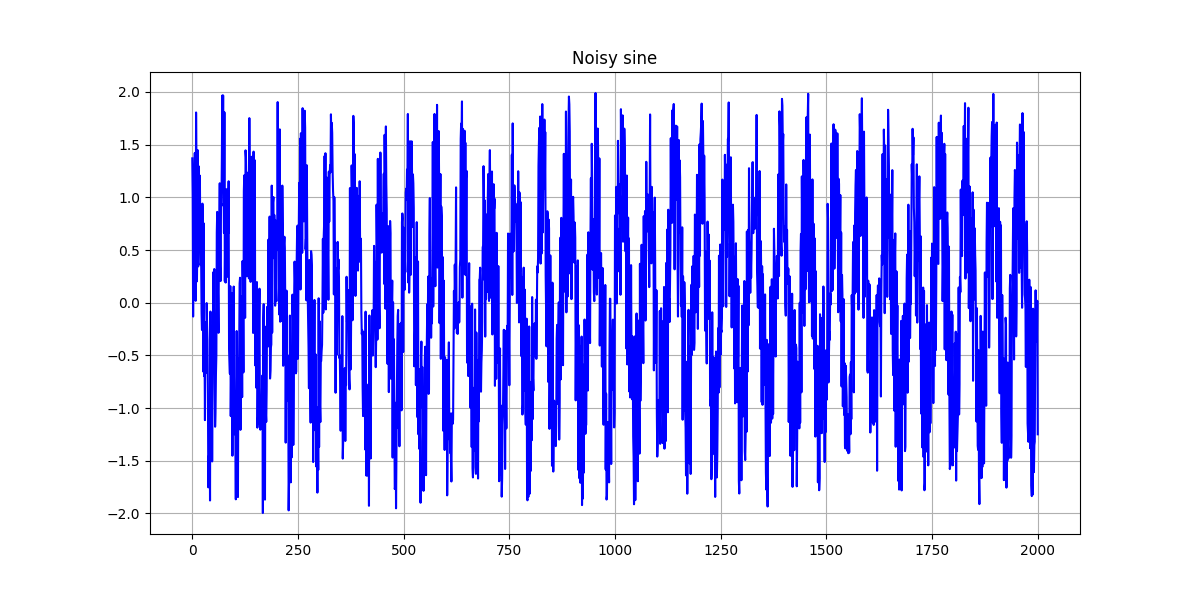
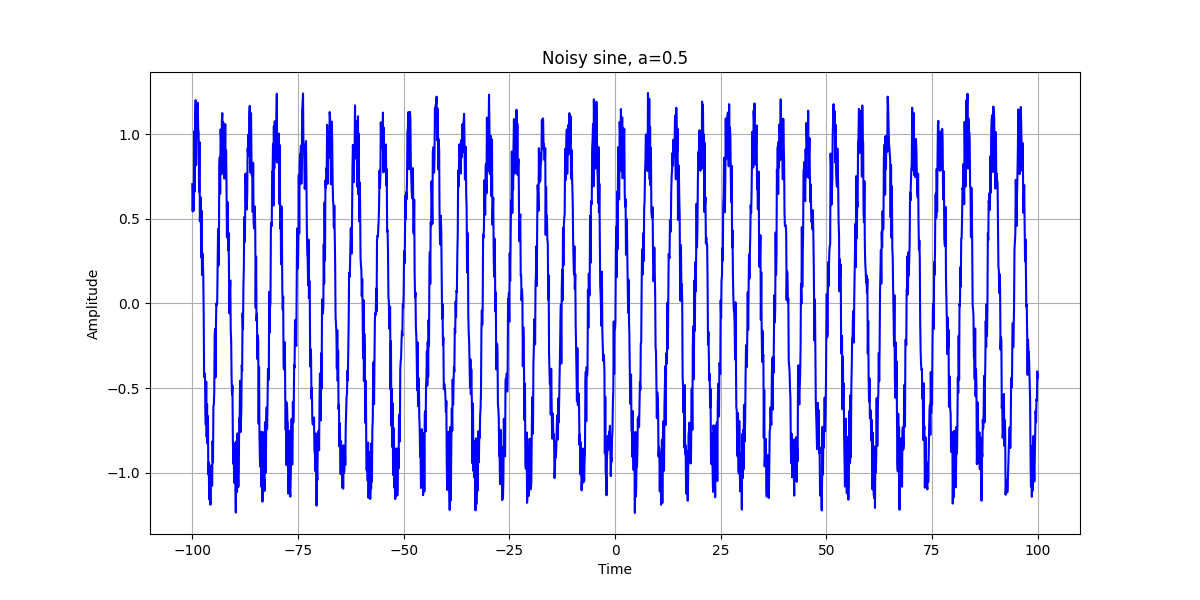
fml4

diff --git a/fm_lab4/task1.py b/fm_lab4/task1.py
@@ -2,42 +2,61 @@ import numpy as np
 import matplotlib.pyplot as plt
 
 
-def buildFunc(func, fz1, fz2, clr='b', ttl=None, grid=True):
-    plt.plot(func, color=clr)
+def build_f(xfunc, yfunc, fz1=12,
+            fz2=6, clr='b', ttl=None,
+            grid=True, xlab=None, ylab=None,
+            xl1=None, xl2=None, yl1=None,
+            yl2=None):
+    plt.plot(xfunc, yfunc, color=clr)
+    plt.xlabel(xlab)
+    plt.ylabel(ylab)
+    plt.xlim(xl1, xl2)
+    plt.ylim(yl1, yl2)
     plt.title(ttl)
     plt.gcf().set_size_inches(fz1, fz2)
     plt.grid(grid)
     plt.show()
 
 
-def getNoise(a, t):
-    return a*(np.random.rand(len(t))-0.5)
+def apply_noise(y, a, t):
+    return y + a*(np.random.rand(len(t))-0.5)
 
 
-def numericalDiff(y, dt):
-    shtrih = []
-    for i in range(len(y) - 1):
-        shtrih_i = (y[i+1]-y[i])/dt
-        shtrih.append(shtrih_i)
+def numerical_diff(y, dt):
+    ndiff = []
+    for k in range(len(y) - 1):
+        ndiff_k = (y[k+1]-y[k])/dt
+        ndiff.append(ndiff_k)
+    return ndiff
 
-    return shtrih
 
-
-def spectralDiff():
-    ...
+def spectral_diff(y, t, v):
+    Y = []
+    for k in v:
+        Y_k = np.trapz(y * np.exp(-1j * 2 * np.pi * k * t), t)
+        Y.append(Y_k)
+    temp = 1j * 2 * np.pi * v * Y
+    return np.fft.ifft(temp), Y
 
 
 dt = 0.1
 t = np.arange(-100, 100 + dt, dt)
 y = np.sin(t)
-buildFunc(y, 12, 6, ttl='Clear sine')
+build_f(t, y, ttl='Clear sine', xlab='Time', ylab='Amplitude')
 
-a = 2
-sh = getNoise(a, t)
-buildFunc(sh, 12, 6, ttl=f'Noise, a={a}')
+a = 0.5
+y = apply_noise(y, a, t)
+build_f(t, y, ttl=f'Noisy sine, a={a}', xlab='Time', ylab='Amplitude')
 
-y += sh
-buildFunc(y, 12, 6, ttl='Noisy sine')
+nsin = numerical_diff(y, dt)
+build_f(t[:-1], nsin, ttl='Numerical derivative of sine', xlab='Time', ylab='Amplitude')
 
-ns = numericalDiff(y, dt)
-buildFunc(ns, 12, 6, ttl='Numerical derivative of sine')
+v = np.fft.fftfreq(len(t), dt)
+res, Y = spectral_diff(y, t, v)
+build_f(v, res.real, ttl='Real part of spectral derivative of sine', xlab='Frequency', ylab='Amplitude')
+build_f(v, res.imag, ttl='Imaginary part of spectral derivative of sine', xlab='Frequency', ylab='Amplitude')
+build_f(v, np.array(Y).real, ttl='Real part of Fourier image of sine', xlab='Frequency', ylab='Amplitude')
+build_f(v, np.array(Y).imag, ttl='Imaginary part of Fourier image of sine', xlab='Frequency', ylab='Amplitude')
+
+tdcos = -np.sin(t)
+build_f(t, tdcos, ttl='True derivative of cosine', xlab='Time', ylab='Frequency')
